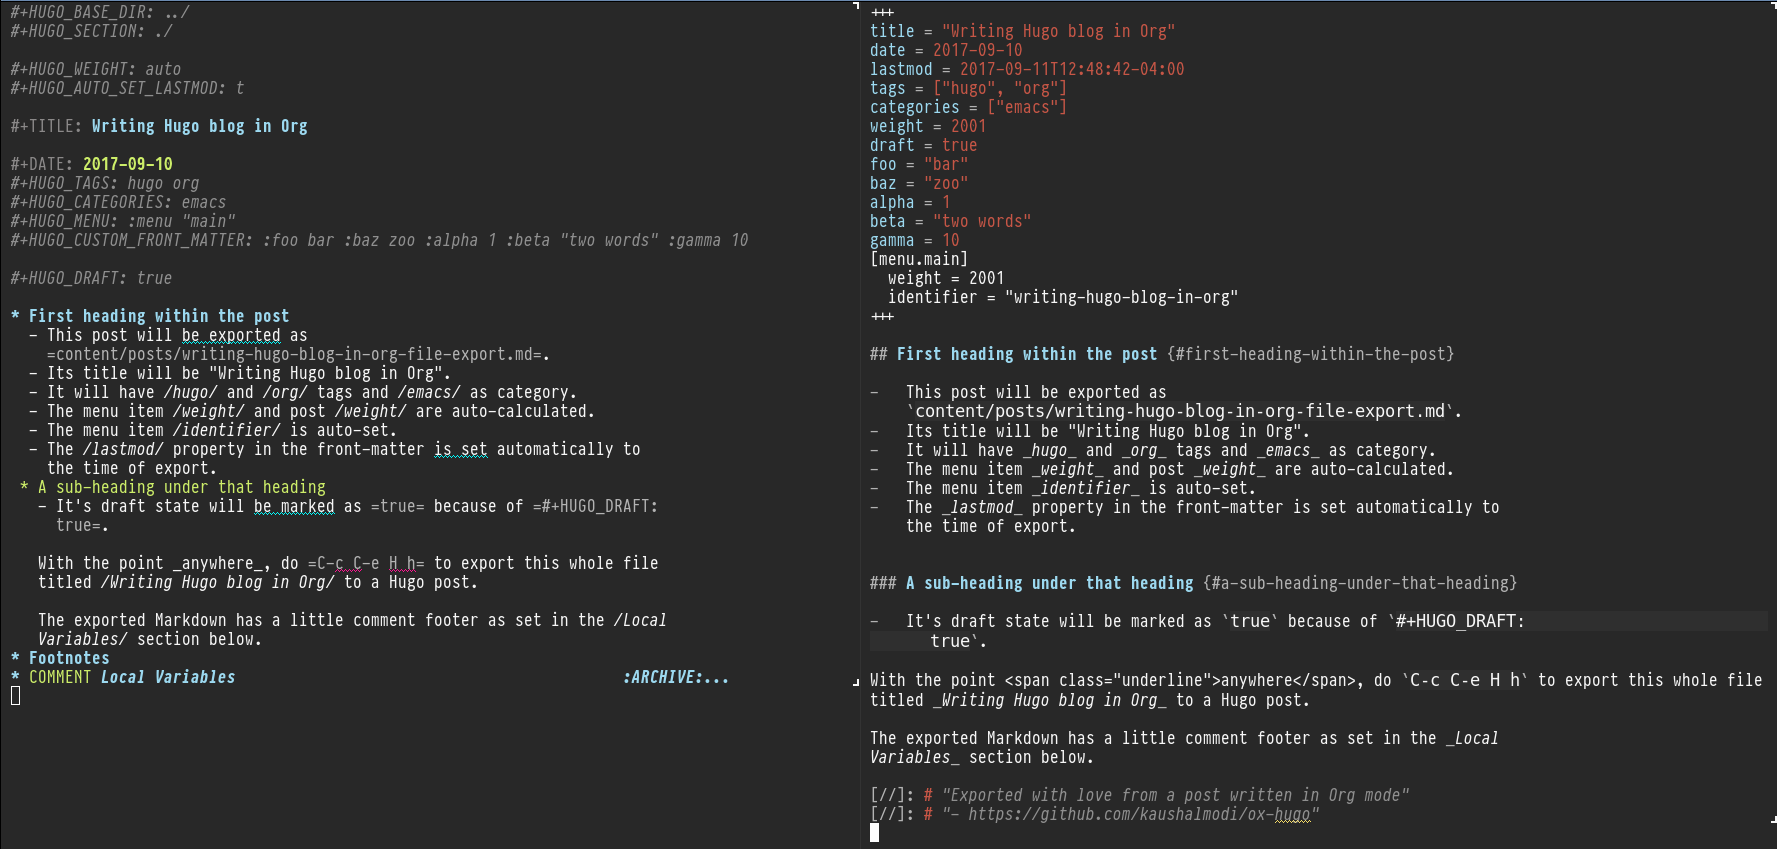
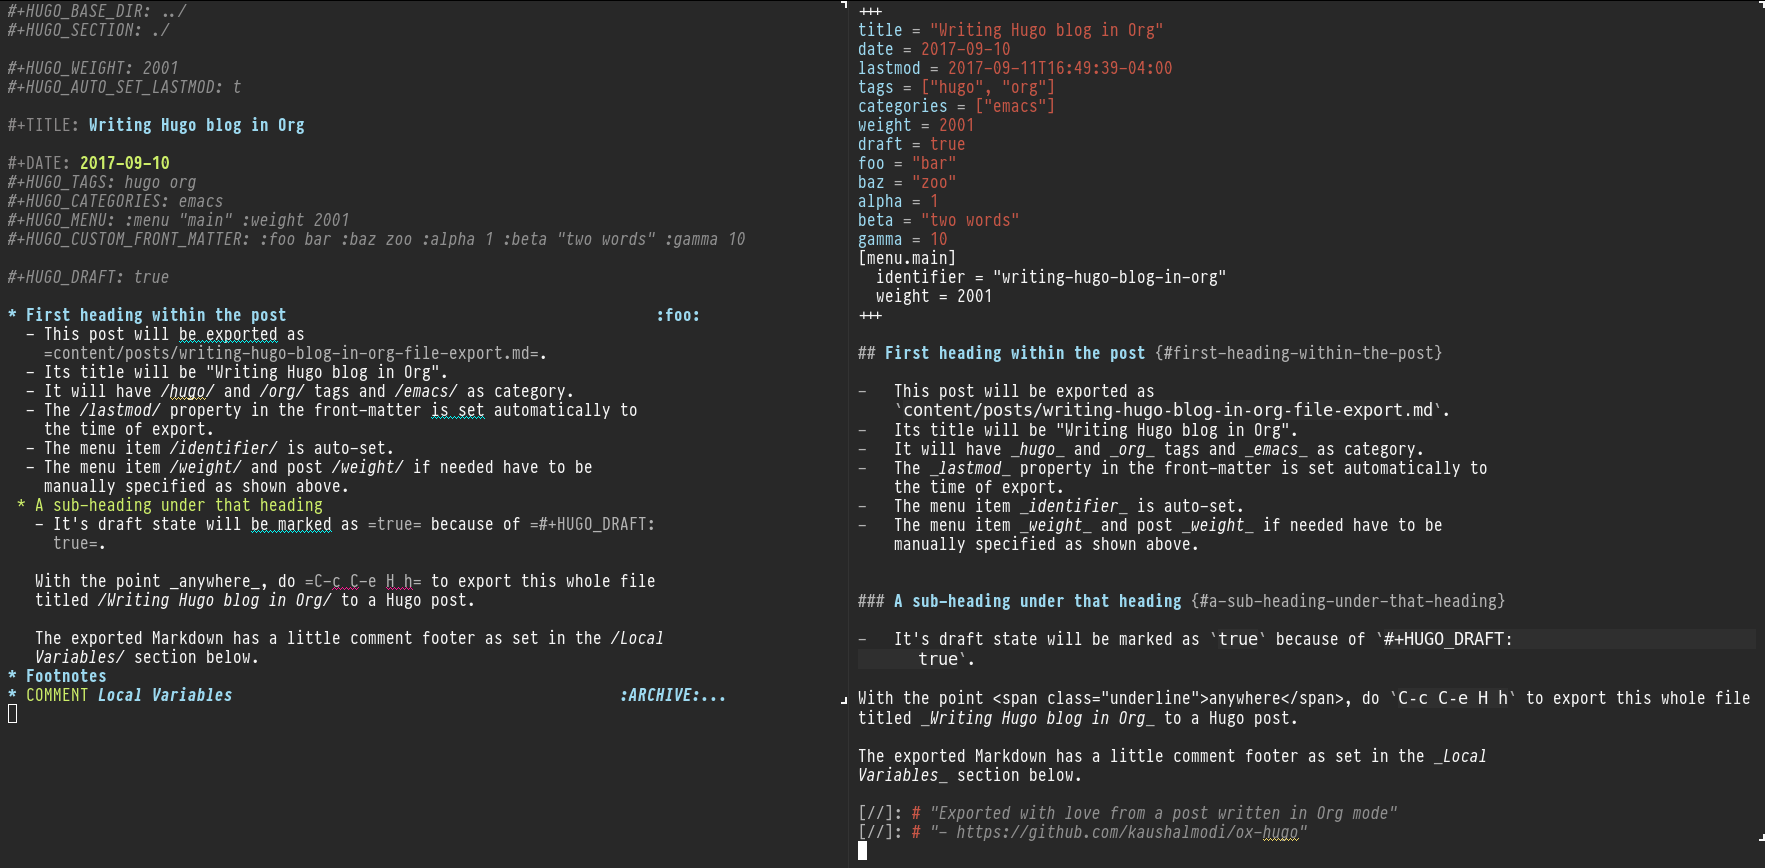
Clarify differences in Org between file and subtree export flows
Also fix the writing-hugo-blog-in-org-file-export.org.. we cannot have
auto-weight calculation in file export flow (compared to subtree
export flow).

diff --git a/example-site/content/writing-hugo-blog-in-org-file-export.md b/example-site/content/writing-hugo-blog-in-org-file-export.md
@@ -1,7 +1,7 @@
 +++
 title = "Writing Hugo blog in Org"
 date = 2017-09-10
-lastmod = 2017-09-11T12:48:42-04:00
+lastmod = 2017-09-11T16:49:39-04:00
 tags = ["hugo", "org"]
 categories = ["emacs"]
 weight = 2001
@@ -12,8 +12,8 @@ alpha = 1
 beta = "two words"
 gamma = 10
 [menu.main]
-  weight = 2001
   identifier = "writing-hugo-blog-in-org"
+  weight = 2001
 +++
 
 ## First heading within the post {#first-heading-within-the-post}
@@ -22,10 +22,11 @@ gamma = 10
     `content/posts/writing-hugo-blog-in-org-file-export.md`.
 -   Its title will be "Writing Hugo blog in Org".
 -   It will have _hugo_ and _org_ tags and _emacs_ as category.
--   The menu item _weight_ and post _weight_ are auto-calculated.
--   The menu item _identifier_ is auto-set.
 -   The _lastmod_ property in the front-matter is set automatically to
     the time of export.
+-   The menu item _identifier_ is auto-set.
+-   The menu item _weight_ and post _weight_ if needed have to be
+    manually specified as shown above.
 
 
 ### A sub-heading under that heading {#a-sub-heading-under-that-heading}
